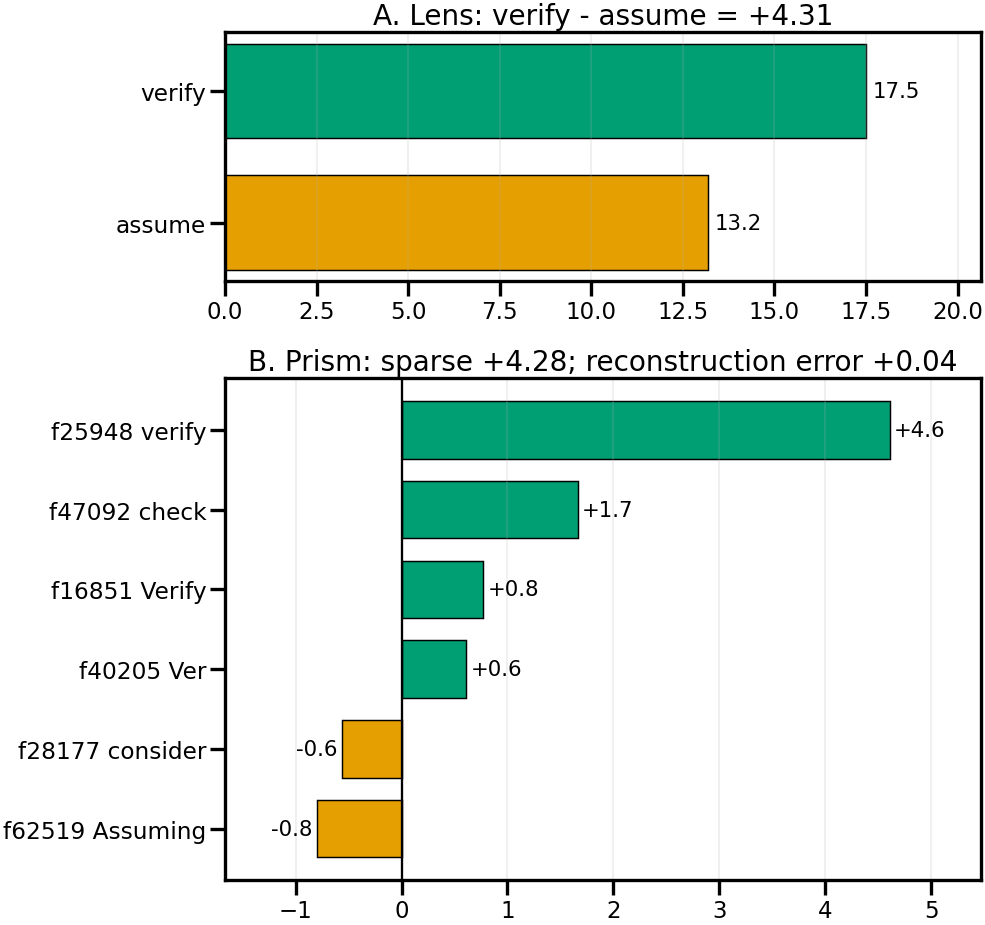
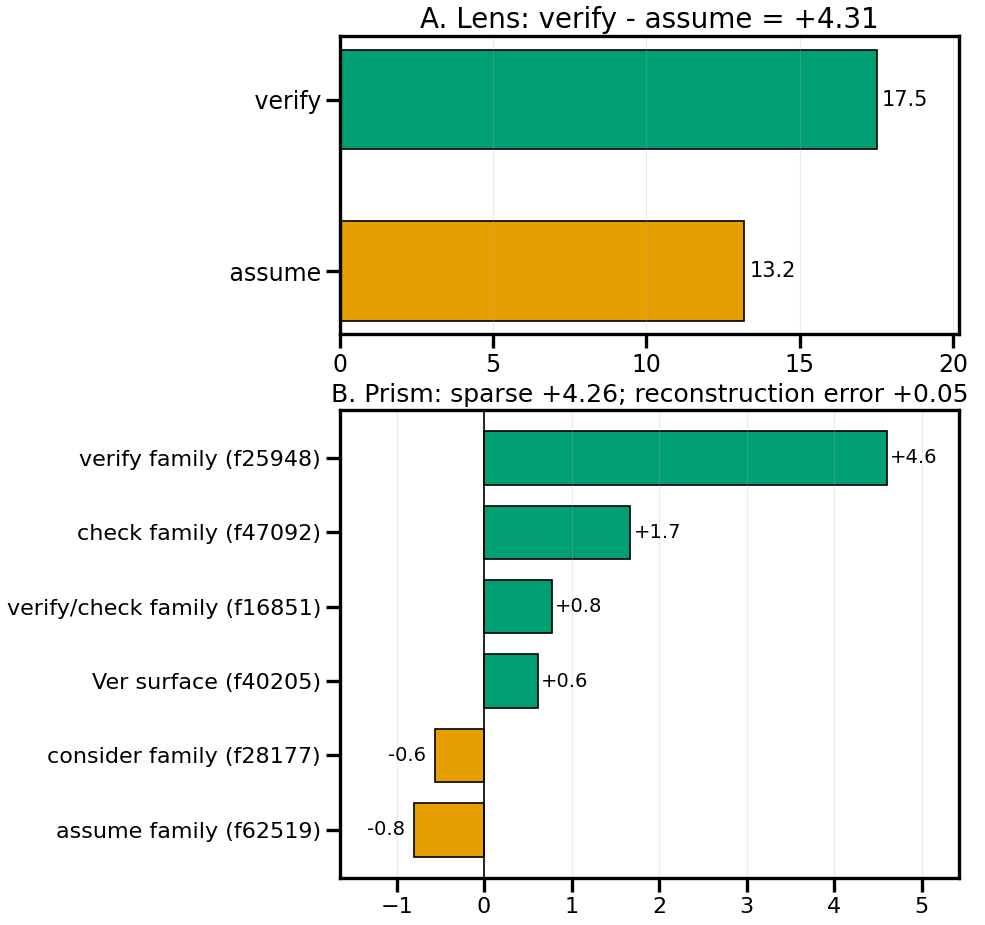
Refine introduction terminology

Changed region(s): [[0.0, 0.0, 1.0, 0.9989]]

diff --git a/sections/introduction.tex b/sections/introduction.tex
@@ -7,53 +7,54 @@ or through a learned lens
 \citep{nostalgebraist2020,belrose2023tuned,pal2023future,ghandeharioun2024patchscopes}.
 A logit-lens probe asks: what vocabulary evidence does this hidden state expose?
 This view is useful, but each selected logit or contrast remains a dense dot
-product with an unembedding row or readout direction: it identifies high-scoring
-tokens without showing which shared directions support or oppose the score, or
-what residual remains. We introduce Sparse Readout Prism (SRP), a sparse feature decomposition for
-logit-lens readouts, built from a sparse factorization of the unembedding matrix. SRP factorizes the LM head into sparse
-token-row coefficients and shared decoder directions, or \emph{readout
-features}. Given a hidden state and scalar readout target, SRP decomposes the
-score into positive and negative feature terms plus a reconstruction residual;
-we call this a \emph{local score decomposition}.
+product with an unembedding row or readout direction. It identifies favored
+tokens without showing which shared readout directions support or oppose the
+score, or what residual remains after a sparse decomposition.
+
+We introduce Sparse Readout Prism (SRP), a sparse feature decomposition for
+logit-lens readouts. SRP applies sparse-autoencoder and dictionary-learning
+machinery to the LM head itself
+\citep{makhzani2013ksparse,bricken2023monosemanticity,cunningham2023sparse,gao2024scaling},
+yielding a sparse dictionary factorization of the final unembedding matrix.
+Vocabulary rows receive sparse token-row coefficients over shared SAE decoder
+directions. We call these directions \emph{readout features}: they are features
+of the final readout matrix rather than activation-SAE features of hidden states.
+For a hidden state, projection onto these directions gives
+\emph{readout feature projections} before any token, contrast, or margin is
+selected. A chosen linear function of unembedding rows is a \emph{scalar readout
+target}; it supplies target coefficients that turn the projections into
+\emph{signed feature contributions} plus explicit reconstruction residuals. We
+call the resulting target-conditioned object a \emph{local score decomposition}.
 
 \begin{figure}[H]
     \centering
     \includegraphics[width=0.78\columnwidth]{figures/proto_token_lens/qwen2b_lens_prism_comparison_verify_assume/qwen2b_lens_prism_comparison_verify_assume.pdf}
     \caption{\textbf{From lens output to a local score decomposition.}
     SRP keeps the \texttt{verify}-minus-\texttt{assume} target fixed while
-    decomposing the score into signed sparse readout-feature terms and an explicit
+    decomposing the score into signed feature terms plus an explicit
     reconstruction residual.}
     \label{fig:main-lens-prism-comparison}
 \end{figure}
 
-SRP works on the readout side. A scalar readout target can be a token logit
-\(h^\top w_t\), pairwise logit difference \(h^\top(w_A-w_B)\), reference
-contrast, group contrast, or top-competitor margin. For a fixed hidden state and
-target, the terms are local and checkable against the exact score and residual.
-
-SRP applies sparse-autoencoder and dictionary-learning machinery to the LM head
-itself \citep{bricken2023monosemanticity,cunningham2023sparse,gao2024scaling},
-factorizing the final unembedding matrix into sparse token-row coefficients and
-shared readout directions,
-\[
-    \WU \approx \mathbf{1}\mu^\top + ZD_{\mathrm{feat}} .
-\]
-This defines a reusable readout-feature basis before any target is chosen.
-Projecting a hidden state \(h\) onto these decoder directions gives a readout
-feature projection vector over directions learned from unembedding rows. A
-scalar readout target then turns those projections into signed feature
-contributions plus a residual.
-
 \Cref{fig:main-lens-prism-comparison} illustrates this identity on a
-\texttt{verify}-minus-\texttt{assume} margin: SRP keeps the pairwise target fixed,
-assigns positive signed contributions to features labeled by
-verification/checking tokens, negative contributions to assumption-related
-features, and reports the residual.
+\texttt{verify}-minus-\texttt{assume} margin: SRP keeps the pairwise logit
+difference fixed, assigns positive signed feature contributions to readout
+features with labels summarizing verification/checking token rows, assigns
+negative signed feature contributions to readout features with labels summarizing
+assumption-related token rows, and reports the residual.
+
+SRP operates on scalar readout targets: token logits, pairwise logit differences,
+group contrasts, or top-competitor margins.
+For a fixed hidden state and target, the terms are local and checkable against
+the original score and residual. Diagnostics identify settings where the sparse
+terms preserve selected readout scores closely enough for local analysis. In the
+Qwen settings selected by these checks, SRP preserves held-out contrast signs at
+\(0.949\)--\(0.958\) with median relative reconstruction error below \(0.10\).
 
 The paper contributes:
 \begin{itemize}
-    \item a novel sparse dictionary factorization of the final unembedding / LM head
-    that defines a reusable readout-feature basis;
+    \item a sparse dictionary factorization of the final unembedding / LM head
+    that defines a sparse feature basis for the readout;
     \item a scalar readout-target formalism that turns token scores, token
     contrasts, group contrasts, and margins into signed feature contributions;
     \item fidelity diagnostics for LM-head replacement, target reconstruction,
@@ -61,10 +62,5 @@ The paper contributes:
     preserve the original readout score;
     \item analyses showing how target choice, prompt context, residual-stream
     components, and constrained readout-side edits interact with the same
-    readout-feature basis.
+    readout feature basis.
 \end{itemize}
-
-Diagnostics identify settings where the feature terms preserve selected readout
-scores closely enough for local analysis. In the Qwen settings selected by these
-checks, SRP preserves held-out contrast signs at \(0.949\)--\(0.958\) with median
-relative reconstruction error below \(0.10\).
